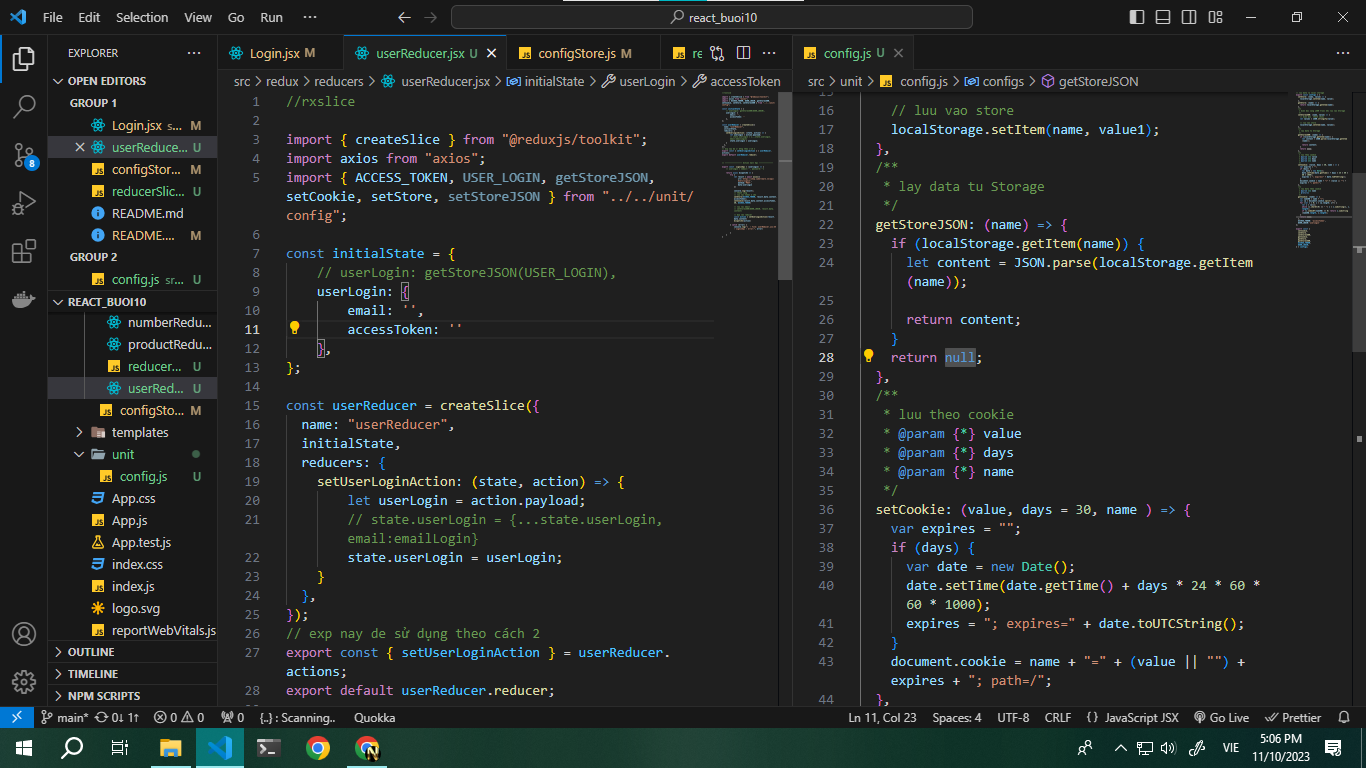
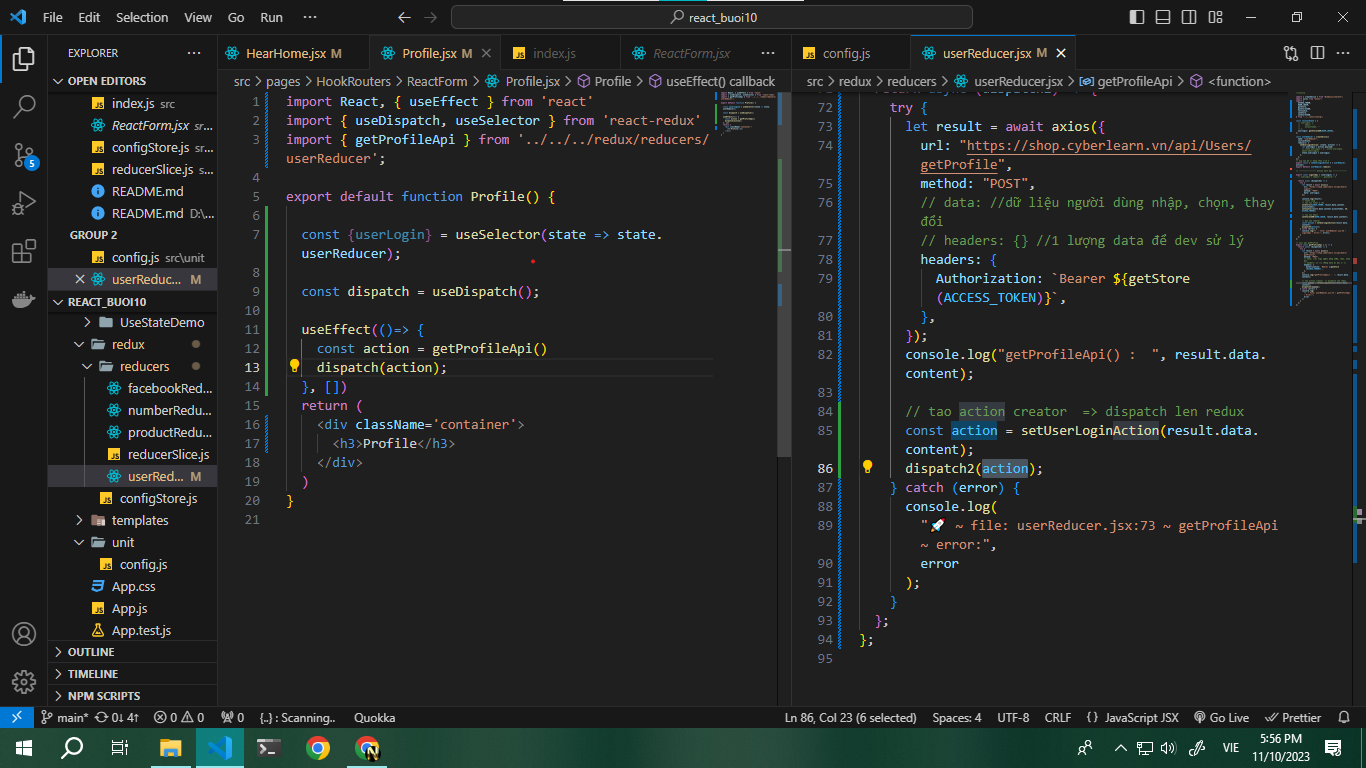
call api getProfileApi() - luu len redux

diff --git a/react_buoi10/src/redux/reducers/userReducer.jsx b/react_buoi10/src/redux/reducers/userReducer.jsx
@@ -2,14 +2,22 @@
 
 import { createSlice } from "@reduxjs/toolkit";
 import axios from "axios";
-import { ACCESS_TOKEN, USER_LOGIN, getStoreJSON, setCookie, setStore, setStoreJSON } from "../../unit/config";
+import {
+  ACCESS_TOKEN,
+  USER_LOGIN,
+  getStore,
+  getStoreJSON,
+  setCookie,
+  setStore,
+  setStoreJSON,
+} from "../../unit/config";
 
 const initialState = {
-    // userLogin: {
-    //     email: '',
-    //     accessToken: ''
-    // },
-    userLogin: getStoreJSON(USER_LOGIN),
+  // userLogin: {
+  //     email: '',
+  //     accessToken: ''
+  // },
+  userLogin: getStoreJSON(USER_LOGIN),
 };
 
 const userReducer = createSlice({
@@ -17,47 +25,70 @@ const userReducer = createSlice({
   initialState,
   reducers: {
     setUserLoginAction: (state, action) => {
-        let userLogin = action.payload;
-        // state.userLogin = {...state.userLogin, email:emailLogin}
-        state.userLogin = userLogin;
-    }
+      let userLogin = action.payload;
+      // state.userLogin = {...state.userLogin, email:emailLogin}
+      state.userLogin = userLogin;
+    },
   },
 });
 // exp nay de sử dụng theo cách 2
 export const { setUserLoginAction } = userReducer.actions;
 export default userReducer.reducer;
 
-
-
 // ----------------- Action Call Api --------------
 
-export const  signinApi = (userLogin) => {
-    // userLogin = {email:'', password:''}
+export const signinApi = (userLogin) => {
+  // userLogin = {email:'', password:''}
 
-    return async dispatch2 => {
-        try {
-            let result = await axios({
-                url:'https://shop.cyberlearn.vn/api/Users/signin',
-                method:'POST',
-                data:userLogin
-            }) 
-            
-            console.log(result);
-            // thanh cong 
-            // luu lai token 2 cho
-            setStore(ACCESS_TOKEN, result.data.content.accessToken);
-            setCookie(result.data.content.accessToken, 30, ACCESS_TOKEN)
+  return async (dispatch2) => {
+    try {
+      let result = await axios({
+        url: "https://shop.cyberlearn.vn/api/Users/signin",
+        method: "POST",
+        data: userLogin,
+      });
 
-            // luu lai email
-            setStoreJSON(USER_LOGIN, result.data.content)
+      console.log(result);
+      // thanh cong
+      // luu lai token 2 cho
+      setStore(ACCESS_TOKEN, result.data.content.accessToken);
+      setCookie(result.data.content.accessToken, 30, ACCESS_TOKEN);
 
-            // dua len reducer
-            const action = setUserLoginAction(result.data.content)
-            dispatch2(action)
-            
-        } catch (error) {
-            console.log("🚀 ~ file: userReducer.jsx:34 ~ signinApi ~ error:", error)
-            
-        }
+      // luu lai email
+      setStoreJSON(USER_LOGIN, result.data.content);
+
+      // dua len reducer
+      const action = setUserLoginAction(result.data.content);
+      dispatch2(action);
+    } catch (error) {
+      console.log("🚀 ~ file: userReducer.jsx:34 ~ signinApi ~ error:", error);
     }
-}
+  };
+};
+
+// call api getProfile
+export const getProfileApi = () => {
+  return async (dispatch2) => {
+    try {
+      let result = await axios({
+        url: "https://shop.cyberlearn.vn/api/Users/getProfile",
+        method: "POST",
+        // data: //dữ liệu người dùng nhập, chọn, thay đổi
+        // headers: {} //1 lượng data để dev sử lý
+        headers: {
+          Authorization: `Bearer ${getStore(ACCESS_TOKEN)}`,
+        },
+      });
+      console.log("getProfileApi() :  ", result.data.content);
+
+      // tao action creator  => dispatch len redux
+      const action = setUserLoginAction(result.data.content);
+      dispatch2(action);
+    } catch (error) {
+      console.log(
+        "🚀 ~ file: userReducer.jsx:73 ~ getProfileApi ~ error:",
+        error
+      );
+    }
+  };
+};

diff --git a/react_buoi10/src/pages/Login/Login.jsx b/react_buoi10/src/pages/Login/Login.jsx
@@ -17,8 +17,8 @@ export default function Login(props) {
             // dịnh nghĩa các validation cho cac trừờng naof
             // .matches() kiem tra regex
             email: Yup.string().required("Email không được bỏ trống!").email('Email không dúng định dạng !') ,
-            password: Yup.string().required("Password không được bỏ trống!").min(6, 'Password từ 6 - 32 ký tự !')
-                .max(32,'Password từ 6 - 32 ký tự !')
+            password: Yup.string().required("Password không được bỏ trống!").min(3, 'Password từ 3 - 32 ký tự !')
+                .max(32,'Password từ 3 - 32 ký tự !')
                 //.matches(/Avan/, 'Password phải có từ Avan')
         })
         ,
@@ -77,10 +77,18 @@ export default function Login(props) {
         <button type="submit" class="btn btn-primary">
           Login
         </button>
-        <button type="reset" class="btn btn-secondary mx-2">
+        <button type="reset" onClick={()=> {
+            console.log('khaido@gmail.com - 123');
+        }} class="btn btn-secondary mx-2">
           Clear
         </button>
       </div>
+
+      <button type="button" onClick={()=> {
+            alert('khaido@gmail.com - 123');
+        }} class="btn btn-secondary my-2">
+          account
+        </button>
     </form>
   );
 }

diff --git a/react_buoi10/src/pages/HookRouters/ReactForm/Profile.jsx b/react_buoi10/src/pages/HookRouters/ReactForm/Profile.jsx
@@ -1,9 +1,20 @@
-import React from 'react'
+import React, { useEffect } from 'react'
+import { useDispatch, useSelector } from 'react-redux'
+import { getProfileApi } from '../../../redux/reducers/userReducer';
 
 export default function Profile() {
+
+  const {userLogin} = useSelector(state => state.userReducer);
+
+  const dispatch = useDispatch();
+
+  useEffect(()=> {
+    const action = getProfileApi()
+    dispatch(action);
+  }, [])
   return (
-    <div>
-      Profile
+    <div className='container'>
+      <h3>Profile</h3>
     </div>
   )
 }

diff --git a/react_buoi10/src/components/HearHome.jsx b/react_buoi10/src/components/HearHome.jsx
@@ -15,7 +15,7 @@ export default function HearHome() {
     if (userLogin) {
       return (
         <li className="nav-item">
-          <NavLink className="nav-link" to="/profile" aria-current="page">
+          <NavLink className="nav-link" to="/hook-profile" aria-current="page">
             Hello {userLogin.email}
           </NavLink>
         </li>
